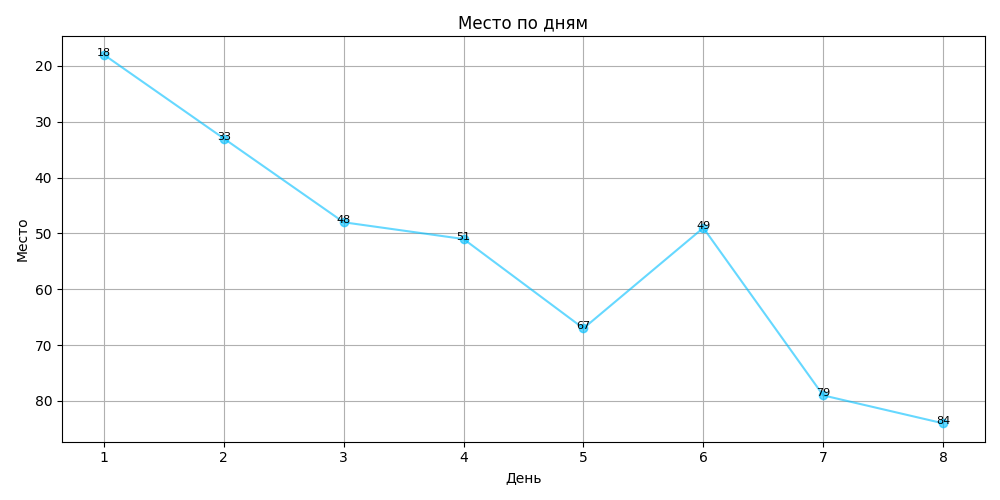
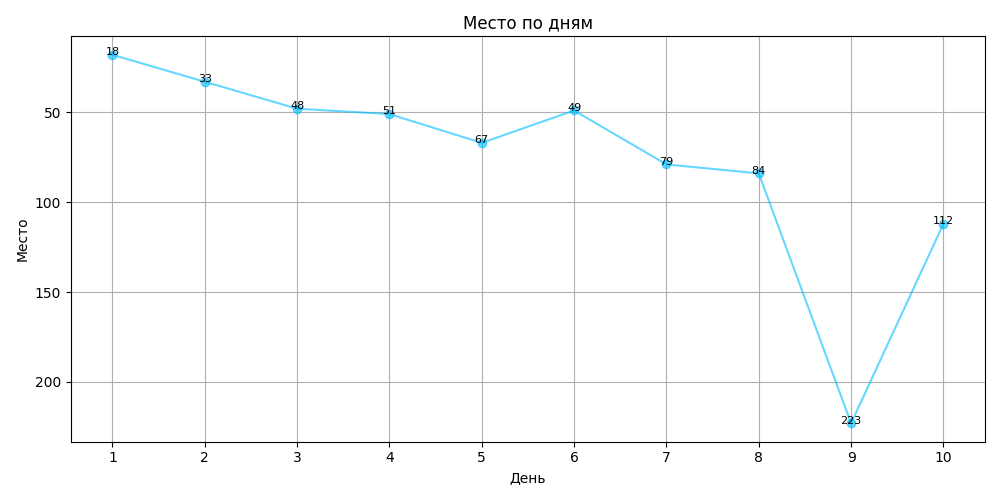
boost challange day 10

diff --git a/BoostChallenge/3July/solution.py b/BoostChallenge/3July/solution.py
@@ -1,0 +1,45 @@
+def solution(n: int, words: list[str]) -> list[list[int]]:
+    from collections import defaultdict, deque
+    word_info = [(i + 1, w, len(w)) for i, w in enumerate(words)]
+    length_groups = defaultdict(list)
+    for idx, w, l in word_info:
+        length_groups[l].append((idx, w))
+
+    all_lengths = sorted(length_groups.keys())
+    min_len = all_lengths[0]
+    max_len = all_lengths[-1]
+
+    short_words = []
+    long_words = []
+
+    length_count = {l: len(length_groups[l]) for l in length_groups}
+    sorted_words = sorted(word_info, key=lambda x: x[2])
+
+    # Берём n самых коротких — короткие, остальные — длинные
+    short_words = sorted_words[:n]
+    long_words = sorted_words[n:]
+
+    # Для быстрого поиска длинных слов по префиксу
+    long_word_map = defaultdict(list)
+    for idx, w, l in long_words:
+        long_word_map[l].append((idx, w))
+
+    # Для каждого короткого ищем длинное, где короткое — префикс
+    used_long = set()
+    result = []
+    for s_idx, s_word, s_len in short_words:
+        found = False
+        for l_idx, l_word, l_len in long_words:
+            if l_idx in used_long:
+                continue
+            if l_word.startswith(s_word):
+                result.append([s_idx, l_idx])
+                used_long.add(l_idx)
+                found = True
+                break
+        if not found:
+            # По условию задачи такого не будет
+            pass
+
+    return result
+

diff --git a/BoostChallenge/3July/solve.py b/BoostChallenge/3July/solve.py
@@ -1,0 +1,7 @@
+def solution(n: int, words: list[str]) -> list[list[int]]:
+    result = [[0, 0] for _ in range(n + 1)]
+
+    return result
+
+
+print(solution(2, ['abac', 'abacab', 'aba', 'abaa']))
